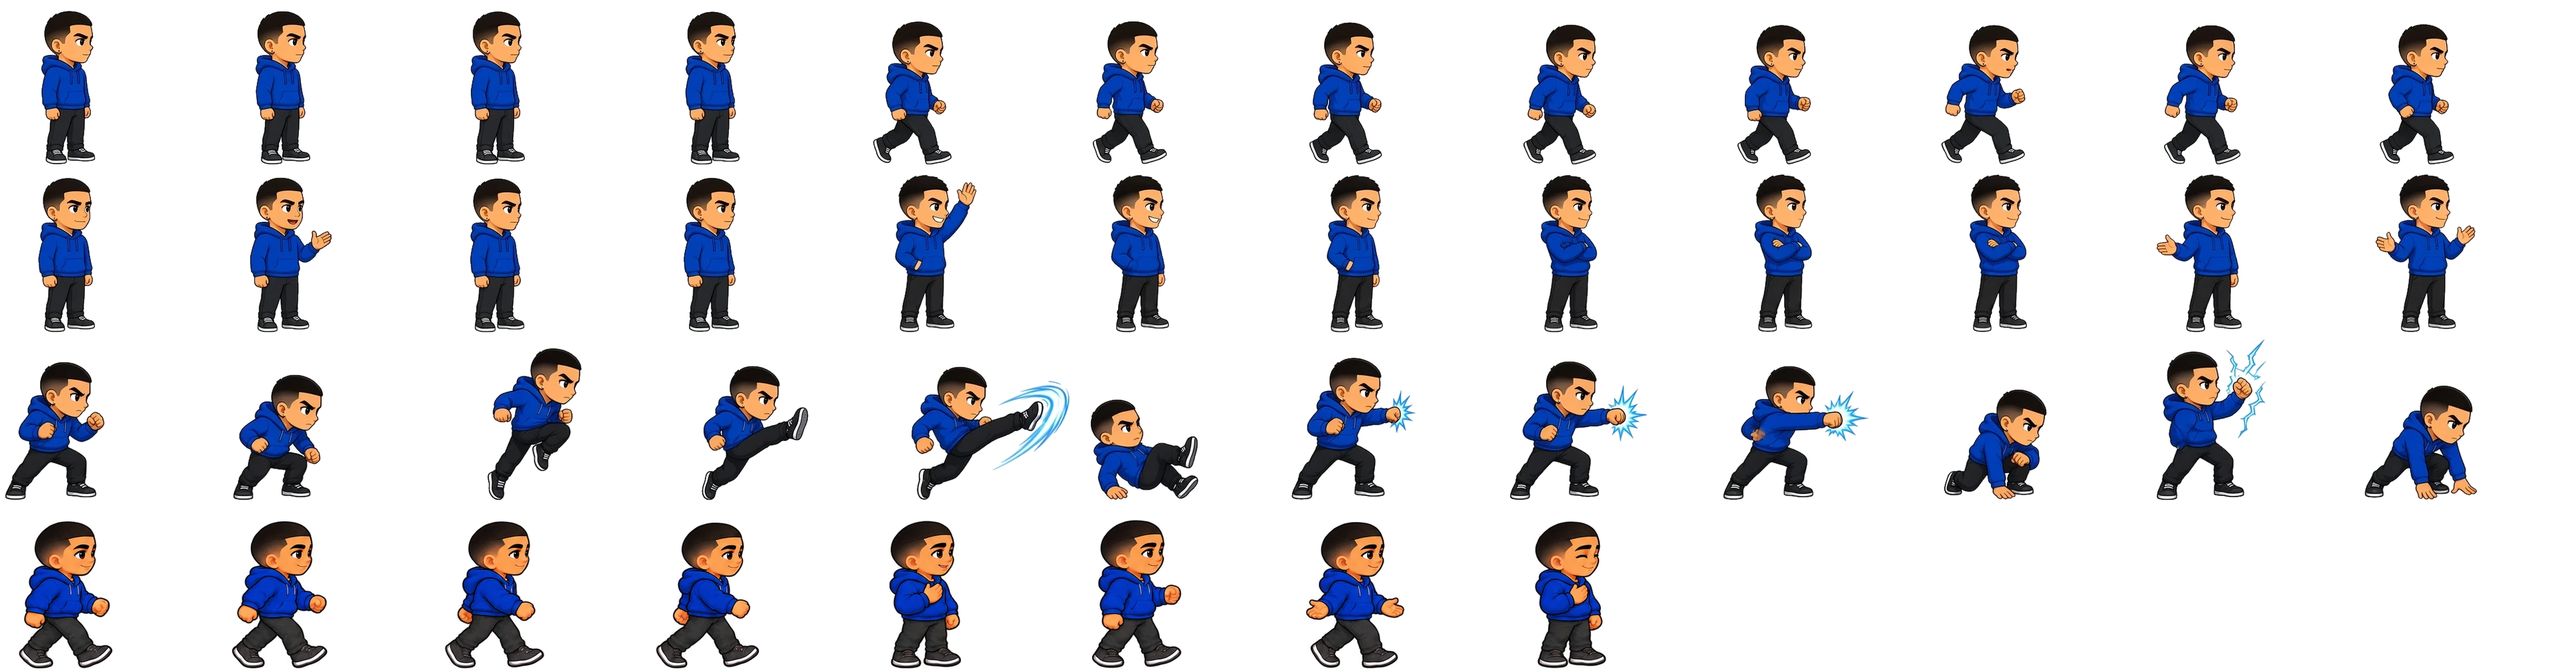
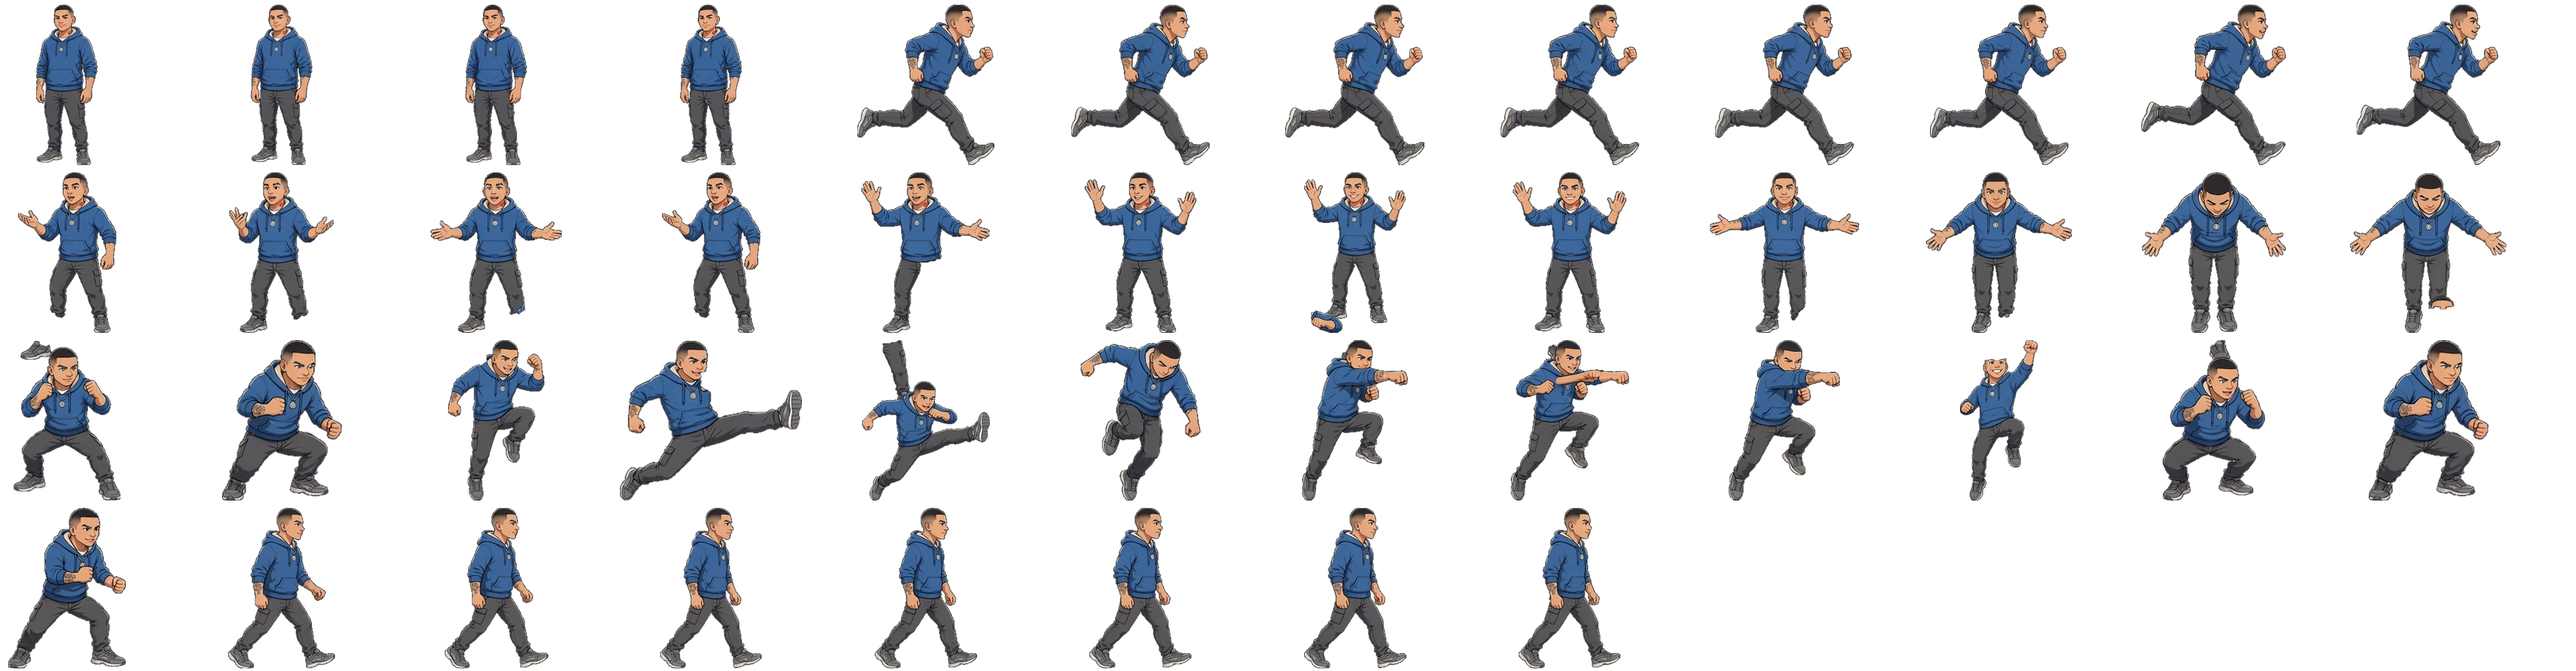
Reskin: angelo main sheet regenerated from approved identity sheet (44 poses, watershed-segmented rebuild on exact 321x251 grid)

Changed region(s): [[0.0, 0.0, 0.4673, 1.0], [0.4984, 0.0, 0.81, 1.0], [0.7477, 0.0, 0.9969, 0.741]]

diff --git a/art/staging/reskin/pipeline.py b/art/staging/reskin/pipeline.py
@@ -1,0 +1,199 @@
+#!/usr/bin/env python3
+"""Reskin pipeline v2: specs, watershed segmentation, masked rebuild."""
+import json, re, sys
+import numpy as np
+from PIL import Image, ImageDraw
+from scipy import ndimage
+
+REPO = '/home/hatch/workspace/angelys-world-game'
+WORK = REPO + '/art/staging/reskin'
+
+def load_spec(key):
+    src = open(REPO + '/src/assets/sprites.gen.ts').read()
+    i = src.index('"%s": {' % key)
+    depth = 0; j = i
+    while True:
+        c = src[j]
+        if c == '{': depth += 1
+        elif c == '}':
+            depth -= 1
+            if depth == 0: break
+        j += 1
+    block = src[i:j+1]
+    fw = int(re.search(r'"frameWidth":\s*(\d+)', block).group(1))
+    fh = int(re.search(r'"frameHeight":\s*(\d+)', block).group(1))
+    ox = float(re.search(r'"originX":\s*([\d.]+)', block).group(1))
+    oy = float(re.search(r'"originY":\s*([\d.]+)', block).group(1))
+    anims = {}
+    for m in re.finditer(r'"(\w+)":\s*\{\s*"start":\s*(\d+),\s*"end":\s*(\d+)', block):
+        anims[m.group(1)] = (int(m.group(2)), int(m.group(3)))
+    cur = Image.open(f'{REPO}/public/assets/runtime/{key}.webp')
+    return dict(fw=fw, fh=fh, ox=ox, oy=oy, anims=anims,
+                cols=cur.width // fw, rows=cur.height // fh,
+                W=cur.width, H=cur.height)
+
+def _flood_watershed(cost, markers, mask):
+    """Priority-flood watershed: grow marker labels over mask pixels,
+    cheapest cost first (heap). Returns int32 label image."""
+    import heapq
+    labels = np.zeros(cost.shape, dtype=np.int32)
+    heap = []
+    ys, xs = np.where(markers > 0)
+    for y, x in zip(ys, xs):
+        labels[y, x] = markers[y, x]
+        heapq.heappush(heap, (int(cost[y, x]), int(y), int(x)))
+    H, W = cost.shape
+    while heap:
+        _, y, x = heapq.heappop(heap)
+        lb = labels[y, x]
+        for dy, dx in ((1, 0), (-1, 0), (0, 1), (0, -1)):
+            ny, nx = y + dy, x + dx
+            if 0 <= ny < H and 0 <= nx < W and mask[ny, nx] and labels[ny, nx] == 0:
+                labels[ny, nx] = lb
+                heapq.heappush(heap, (int(cost[ny, nx]), ny, nx))
+    return labels
+
+def _split_blob(mask):
+    """Split one connected blob into poses via distance-transform watershed.
+    Returns list of boolean masks (same shape as input)."""
+    h = mask.shape[0]
+    if h <= 300:
+        return [mask]
+    dist = ndimage.distance_transform_edt(mask)
+    mx = ndimage.maximum_filter(dist, size=45)
+    peaks = (dist == mx) & (dist > 20)
+    plab, pn = ndimage.label(peaks)
+    if pn <= 1:
+        return [mask]
+    # peak centroids; merge peaks closer than 70px keeping the stronger
+    cents = ndimage.center_of_mass(peaks, plab, range(1, pn + 1))
+    strengths = ndimage.maximum(dist, plab, range(1, pn + 1))
+    order = np.argsort(-np.asarray(strengths))
+    keep = []
+    for oi in order:
+        cy, cx = cents[oi]
+        if all((cy - ky) ** 2 + (cx - kx) ** 2 > 70 ** 2 for ky, kx in keep):
+            keep.append((cy, cx))
+    if len(keep) <= 1:
+        return [mask]
+    markers = np.zeros(mask.shape, dtype=np.int32)
+    for i, (cy, cx) in enumerate(keep, start=1):
+        markers[int(round(cy)), int(round(cx))] = i
+    cost = (dist.max() - dist).astype(np.int32)
+    ws = _flood_watershed(cost, markers, mask)
+    out = []
+    for i in range(1, len(keep) + 1):
+        region = (ws == i) & mask
+        if region.sum() > 800:
+            out.append(region)
+    return out if out else [mask]
+
+def segment(imgpath, key):
+    im = Image.open(imgpath).convert('RGB')
+    a = np.asarray(im).astype(int)
+    mask = a.sum(axis=2) > 60
+    lab, n = ndimage.label(mask)
+    labels = np.zeros(mask.shape, dtype=np.uint16)
+    comps = []
+    cid = 0
+    for idx, sl in enumerate(ndimage.find_objects(lab), start=1):
+        if sl is None: continue
+        hh = sl[0].stop - sl[0].start; ww = sl[1].stop - sl[1].start
+        blob = (lab[sl] == idx)
+        if not (hh > 60 and ww > 30 and blob.sum() > 3000):
+            continue
+        for region in _split_blob(blob):
+            ys, xs = np.where(region)
+            if len(ys) < 800: continue
+            cid += 1
+            gy, gx = sl[0].start + ys, sl[1].start + xs
+            labels[gy, gx] = cid
+            comps.append(dict(id=cid, x=int(gx.min()), y=int(gy.min()),
+                              w=int(gx.max() - gx.min() + 1), h=int(gy.max() - gy.min() + 1),
+                              area=int(len(ys))))
+    comps.sort(key=lambda c: (round(c['y'] / 100), c['x']))
+    json.dump(comps, open(f'{WORK}/{key}_comps.json', 'w'))
+    Image.fromarray(labels).save(f'{WORK}/{key}_labels.png')
+    if comps:
+        cell_w, cell_h = 150, 175
+        cols = min(11, len(comps))
+        rows = (len(comps) + cols - 1) // cols
+        sheet = Image.new('RGB', (cols * cell_w, rows * cell_h), (35, 35, 35))
+        d = ImageDraw.Draw(sheet)
+        for i, c in enumerate(comps):
+            crop = im.crop((c['x'], c['y'], c['x'] + c['w'], c['y'] + c['h']))
+            cm = (labels[c['y']:c['y'] + c['h'], c['x']:c['x'] + c['w']] == c['id'])
+            bg = Image.new('RGB', crop.size, (35, 35, 35))
+            crop = Image.composite(crop, bg, Image.fromarray((cm * 255).astype(np.uint8)))
+            s = min((cell_w - 8) / crop.width, (cell_h - 24) / crop.height)
+            crop = crop.resize((max(1, int(crop.width * s)), max(1, int(crop.height * s))))
+            px, py = (i % cols) * cell_w + 4, (i // cols) * cell_h + 20
+            sheet.paste(crop, (px, py))
+            d.text(((i % cols) * cell_w + 6, (i // cols) * cell_h + 5), '#%d' % i, fill=(255, 255, 0))
+        sheet.save(f'{WORK}/{key}_numbered.png')
+    print(f'{key}: {im.size} -> {len(comps)} components')
+    return comps
+
+def key_contour(img):
+    a = np.asarray(img).astype(np.float32)
+    mx = a.max(axis=2)
+    dark = mx < 30
+    lab, n = ndimage.label(dark)
+    border = set(np.unique(np.concatenate([lab[0, :], lab[-1, :], lab[:, 0], lab[:, -1]]))) - {0}
+    bg = np.isin(lab, list(border)) if border else np.zeros_like(dark)
+    fg = ~bg
+    alpha = ndimage.gaussian_filter(fg.astype(np.float32), 0.8)
+    alpha = np.clip(alpha * 1.6, 0, 1)
+    out = np.zeros((a.shape[0], a.shape[1], 4), dtype=np.float32)
+    out[..., 0] = a[..., 0]; out[..., 1] = a[..., 1]; out[..., 2] = a[..., 2]
+    out[..., 3] = alpha * 255
+    return Image.fromarray(np.clip(out, 0, 255).astype(np.uint8), 'RGBA')
+
+def rebuild(key, genpath, mapping, anchor='feet'):
+    spec = load_spec(key)
+    comps = json.load(open(f'{WORK}/{key}_comps.json'))
+    labels = np.asarray(Image.open(f'{WORK}/{key}_labels.png'))
+    src = Image.open(genpath).convert('RGB')
+    src_a = np.asarray(src)
+    sheet = Image.new('RGBA', (spec['W'], spec['H']), (0, 0, 0, 0))
+    maxw, maxh = spec['fw'] - 13, spec['fh'] - 11
+    for slot, ci in mapping.items():
+        c = comps[ci]
+        region = (labels[c['y']:c['y'] + c['h'], c['x']:c['x'] + c['w']] == c['id'])
+        crop_a = np.where(region[..., None], src_a[c['y']:c['y'] + c['h'], c['x']:c['x'] + c['w']], 0).astype(np.uint8)
+        rgba = key_contour(Image.fromarray(crop_a))
+        # hard-limit alpha to the (softened) region so neighbours never leak in
+        ra = ndimage.gaussian_filter(region.astype(np.float32), 0.8)
+        arr = np.asarray(rgba).astype(np.float32)
+        arr[..., 3] = np.minimum(arr[..., 3], np.clip(ra * 1.6, 0, 1) * 255)
+        rgba = Image.fromarray(np.clip(arr, 0, 255).astype(np.uint8), 'RGBA')
+        s = min(maxw / rgba.width, maxh / rgba.height)
+        nw, nh = max(1, int(rgba.width * s)), max(1, int(rgba.height * s))
+        rgba = rgba.resize((nw, nh), Image.LANCZOS)
+        cx, cy = (slot % spec['cols']) * spec['fw'], (slot // spec['cols']) * spec['fh']
+        if anchor == 'center':
+            px = cx + spec['fw'] // 2 - nw // 2
+            py = cy + spec['fh'] // 2 - nh // 2
+        else:
+            px = cx + int(spec['ox'] * spec['fw']) - nw // 2
+            py = cy + int(spec['oy'] * spec['fh']) - nh
+        sheet.alpha_composite(rgba, (px, py))
+    out = f'{REPO}/public/assets/runtime/{key}.webp'
+    sheet.save(out, lossless=True)
+    chk = Image.new('RGB', sheet.size, (95, 95, 115))
+    chk.paste(sheet, (0, 0), sheet)
+    chk.thumbnail((1600, 1600))
+    chk.save(f'{WORK}/{key}_rebuilt_check.png')
+    print(f'{key}: rebuilt {sheet.size} -> {out}')
+
+if __name__ == '__main__':
+    cmd = sys.argv[1]
+    if cmd == 'spec':
+        print(json.dumps(load_spec(sys.argv[2]), indent=1))
+    elif cmd == 'segment':
+        segment(sys.argv[2], sys.argv[3])
+    elif cmd == 'rebuild':
+        key = sys.argv[2]
+        mapping = {int(k): v for k, v in json.load(open(sys.argv[4])).items()}
+        anchor = sys.argv[5] if len(sys.argv) > 5 else 'feet'
+        rebuild(key, sys.argv[3], mapping, anchor)
